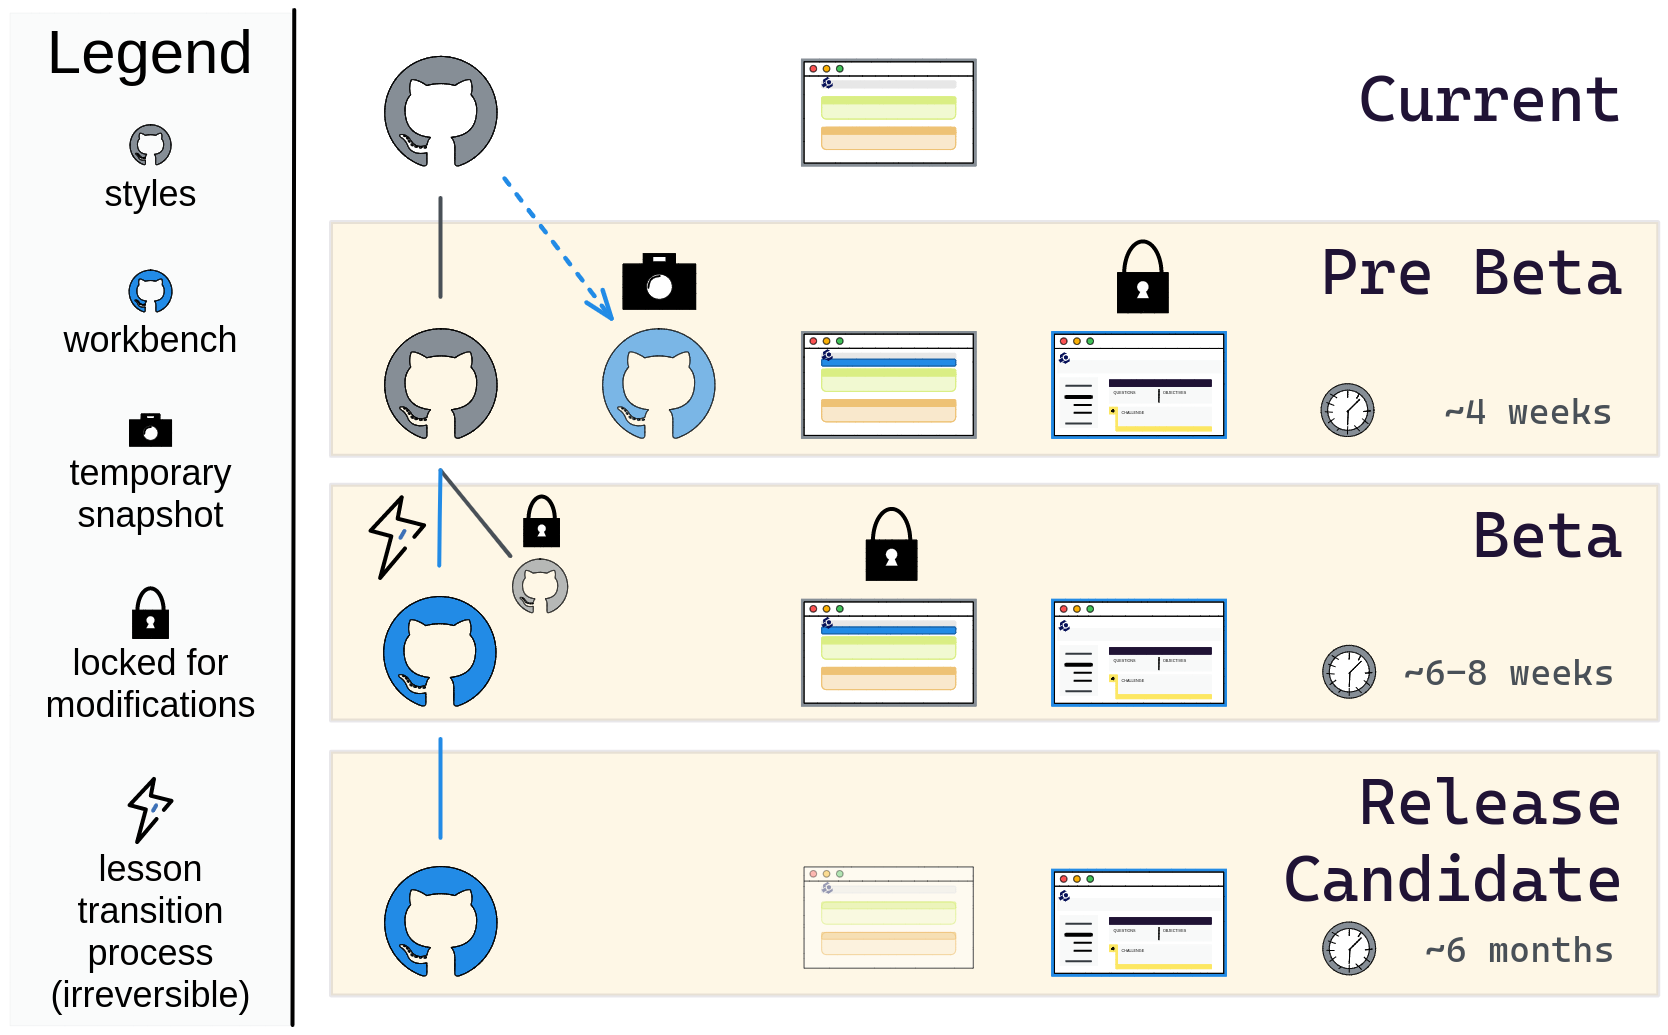
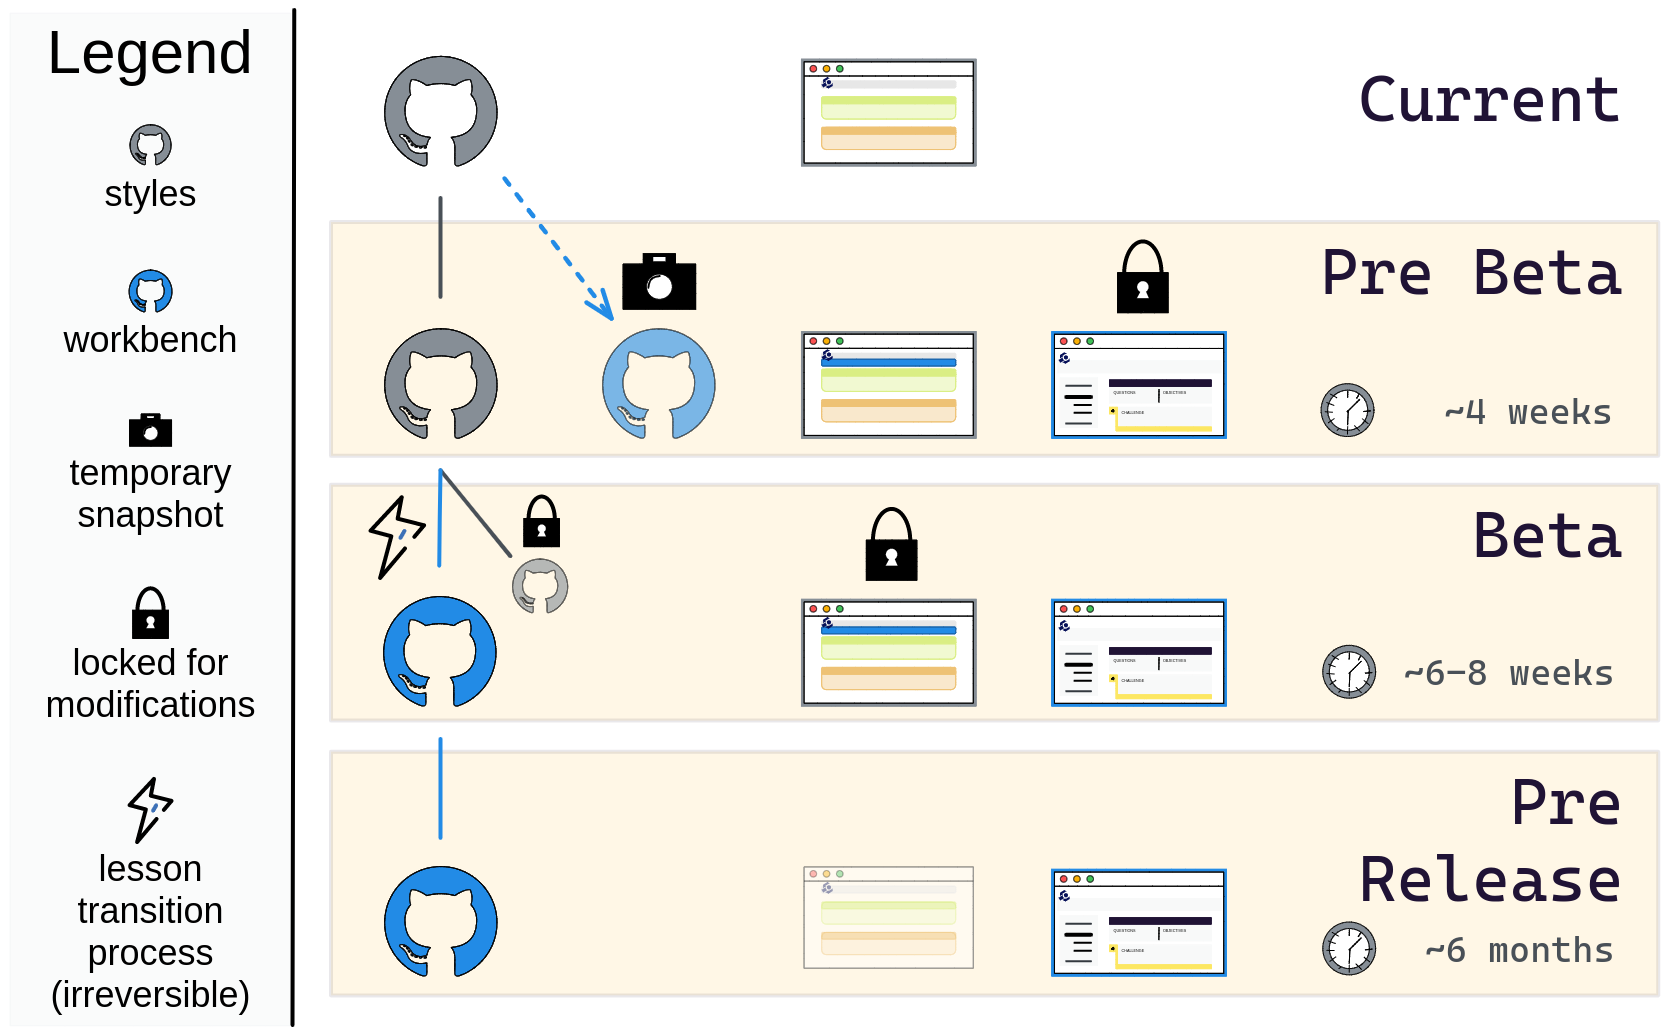
update beta phase blog post

Changed region(s): [[0.7482, 0.742, 0.9664, 0.8966], [0.9353, 0.8348, 0.9664, 0.8657]]

diff --git a/_posts/2022/05/2022-05-05-workbench-beta.md b/_posts/2022/05/2022-05-05-workbench-beta.md
@@ -8,6 +8,8 @@ time: "09:00:00"
 tags: ["Lesson Infrastructure", "Community", "Carpentries Workbench", "Beta", "Dovetail"]
 ---
 
+**Updated 2022-10-03 to reflect that the beta URL will not be the permanent URL**
+
 > This is an ongoing series of blog posts about The Carpentries Workbench, (the next iteration of the [Lesson Infrastructure]({{ site.url }}/posts-by-tags/#lesson-infrastructure)).
 > Find more about our [Design Principles][depr], our [Path to the Design for the Lesson Website][ux-path], the [Alpha Test of the Workbench][alpha-test], and our [Official Announcemnt of The Carpentries Workbench](https://carpentries.org/blog/2022/01/live-lesson-infrastructure/).
 
@@ -95,13 +97,13 @@ During the Workbench beta phase, the URLs for the styles and the Workbench
 websites will be in the following forms:
 
  - **styles**: `https://<program>.github.io/<lesson>` (e.g. <https://datacarpentry.github.io/r-socialsci>)
- - **workbench**: `https://lessons.<program>.org/<lesson>` (e.g. `https://lessons.datacarpentry.org/r-socialsci`)
+ - **workbench preview**: `https://preview.carpentries.org/<lesson>` (e.g. `https://preview.carpentries.org/r-socialsci`)
 
 <figure style="text-align: center">
   <img src="{{ site.urlimg }}/blog/2022/05/styles-url.png" 
-   alt="cartoon representation of the styles version of a lesson with the URL pattern underneath" width="40%"/>
+   alt="cartoon representation of the styles version of a lesson with the URL pattern underneath" width="50%"/>
   <img src="{{ site.urlimg }}/blog/2022/05/workbench-url.png" 
-   alt="cartoon represntation of the workbench version of a lesson with the URL pattern underneath" width="45%"/>
+   alt="cartoon representation of the workbench version of a lesson with the URL pattern underneath" width="45%"/>
   <figcaption>
   The styles and Workbench versions of the websites will live in parallel at separate URLs during the first two stages of the Workbench beta phase
   </figcaption>
@@ -121,7 +123,7 @@ The transition will occur for each lesson independently in three phases with tar
   - Maintainers: receive and merge at least 2 pull requests
   - New Instructors: encouraged to contribute to the Workbench beta phase by adding/moving Instructor notes
     as part of their checkout
-- [Release Candidate](#release-candidate): fully transition to the Workbench and new URL; old URL will redirect to new.
+- [Release Candidate](#release-candidate): fully transition to the Workbench; preview URL will redirect to the lesson.
   - Timeline: 6 months
   - Instructors: teach the new version of the lesson
   - Maintainers: continue to work on the new lesson with the two-track feedback mechanism
@@ -130,7 +132,7 @@ The transition will occur for each lesson independently in three phases with tar
   <img src="{{ site.urlimg }}/blog/2022/05/workbench-beta-flow.png" 
    alt="Diagram of three phases of the beta release. At the top is box labelled 'current' that contains a GitHub logo, a cartoon of a lesson page. Below is a box labelled 'Pre Beta' with the same contents as the box above plus an additional GitHub logo in blue with a camera above it (to indicate a snapshot) and a new cartoon of a lesson page with a padlock over it. There is a clock indicating a timeframe of four weeks. The next box below is labelled 'Beta'. The GitHub logo has become blue and there is a lightning bolt and a line connecting it to the previous logo, indicating that a transformation happened. A smaller, grey GitHub logo is adjacent with a lock over it, indicating that it is archived. The  old lesson page now has a lock and information symbol above it. The new lesson page does not have any symbols above it. The timreframe is 6 to 8 weeks. The final box is titled 'Release Candidate' and has a single blue GitHub logo, a faded old lesson page, and a new lesson page with a timeframe of 6 months"/>
   <figcaption>
-An overview of the Workbench beta phase for the Git repository and the website, separated
+An overview of the Workbench Beta phase for the Git repository and the website, separated
 into three stages. The entire process will take about 8-9 months until lesson
 release with The Carpentries Workbench.
   </figcaption>
